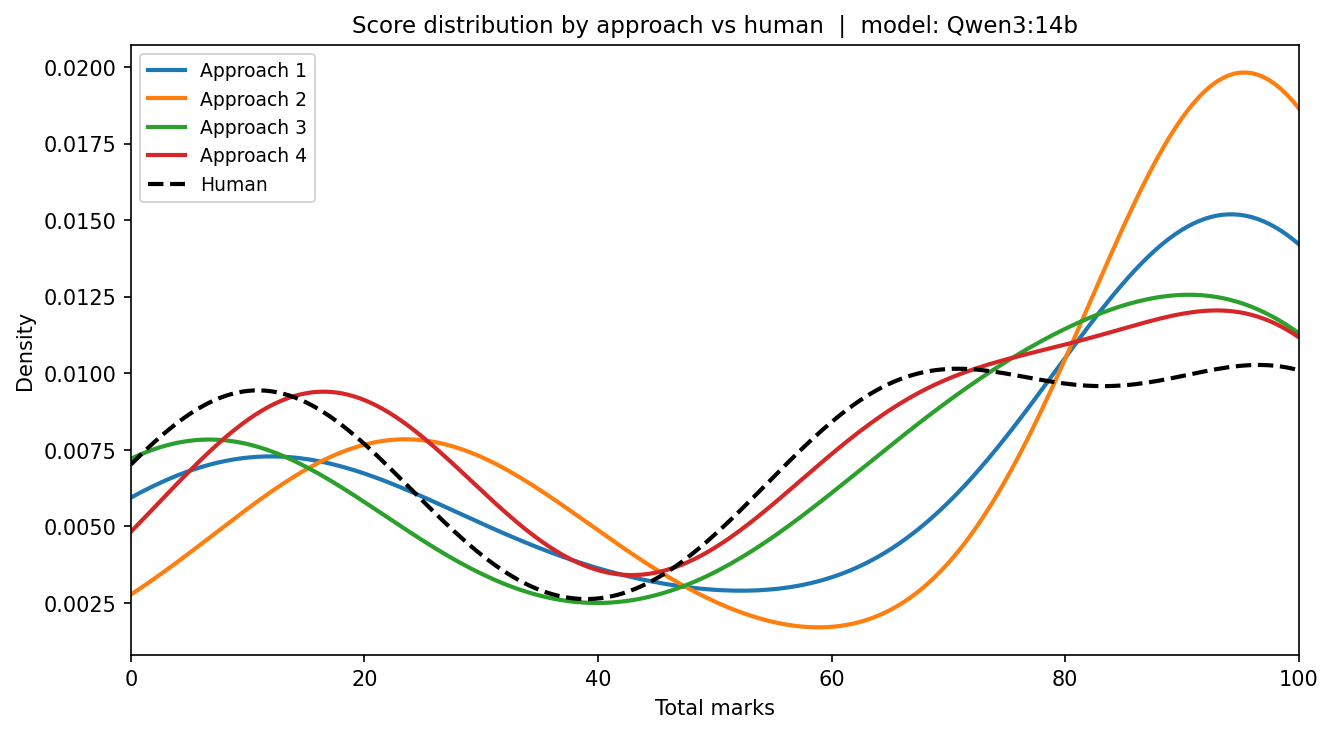
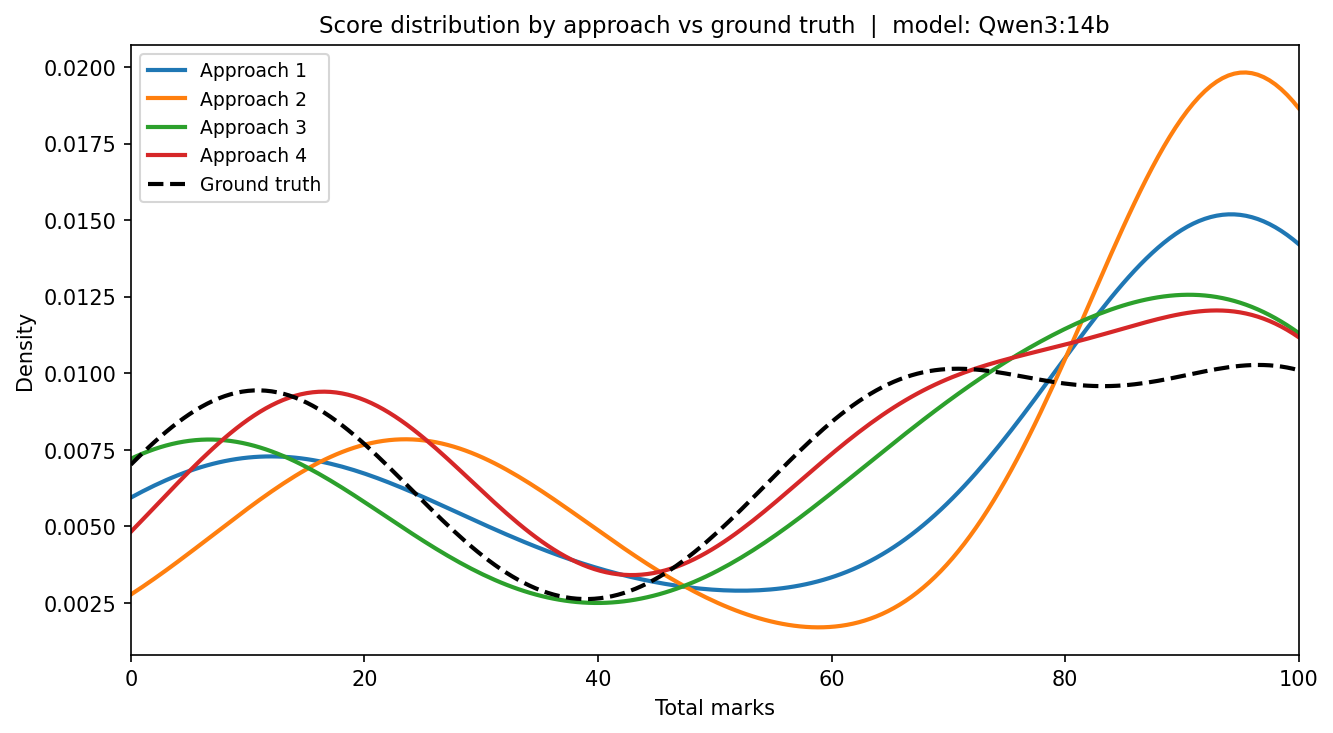
some changes in graphs

Changed region(s): [[0.2461, 0.0, 0.8305, 0.06], [0.1538, 0.2401, 0.2461, 0.2701]]

diff --git a/src/generate_graph.py b/src/generate_graph.py
@@ -217,7 +217,7 @@ def _plot_rq1_kde_figure(df, gt_df, model, output_dir, filename):
         valid_qids = set(deduped["question_id"].dropna().unique())
         human_vals = gt_df[gt_df["question_id"].isin(valid_qids)]["human_total"].dropna().values
         if len(human_vals) >= 2:
-            sns.kdeplot(human_vals, ax=ax, label="Human", color="black",
+            sns.kdeplot(human_vals, ax=ax, label="Ground truth", color="black",
                         linewidth=2, linestyle="--", clip=(0, 100))
 
     ax.set_xlim(0, 100)
@@ -225,7 +225,7 @@ def _plot_rq1_kde_figure(df, gt_df, model, output_dir, filename):
     ax.set_ylabel("Density")
     ax.legend(fontsize=9)
     ax.set_title(
-        f"Score distribution by approach vs human  |  model: {model}",
+        f"Score distribution by approach vs ground truth  |  model: {model}",
         fontsize=11,
     )
     plt.tight_layout()
@@ -276,7 +276,7 @@ def _plot_rq4_leniency_figure(df, gt_df, model, output_dir, filename):
 
     ax.set_xticks(x)
     ax.set_xticklabels([a.replace("approach_", "Approach ") for a in approaches], fontsize=10)
-    ax.set_ylabel("Mean (LLM − Human) marks", fontsize=10)
+    ax.set_ylabel("Mean (LLM − Ground truth) marks", fontsize=10)
     ax.set_title(
         f"Leniency by approach  |  model: {model}",
         fontsize=11,
@@ -334,7 +334,7 @@ def _plot_rq4_leniency_scatter_figure(df, gt_df, model, output_dir, filename):
     ax.legend(handles=handles, title="Student", fontsize=8, loc="upper right")
     ax.set_xticks(x_positions)
     ax.set_xticklabels([a.replace("approach_", "Approach ") for a in approaches], fontsize=10)
-    ax.set_ylabel("LLM − Human (marks)", fontsize=10)
+    ax.set_ylabel("LLM − Ground truth (marks)", fontsize=10)
     ax.set_title(
         f"Leniency per submission  |  model: {model}",
         fontsize=11,
@@ -727,7 +727,7 @@ def _plot_rq4_bucket_distribution_figure(df, gt_df, datastore_dir, model, output
     human_counts = _collect_human_bucket_counts(gt_df, valid_question_ids)
 
     categories = ["Wrong", "Semi", "Correct"]
-    groups = ["Human"] + [a.replace("approach_", "AP") for a in APPROACHES]
+    groups = ["Ground truth"] + [a.replace("approach_", "AP") for a in APPROACHES]
     all_counts = [human_counts] + [approach_counts[a] for a in APPROACHES]
 
     def to_pct(cnt):
@@ -756,7 +756,7 @@ def _plot_rq4_bucket_distribution_figure(df, gt_df, datastore_dir, model, output
     ax.set_xticklabels(categories, fontsize=11)
     ax.set_ylabel("% of rubric point classifications", fontsize=10)
     ax.set_ylim(0, 100)
-    ax.set_title(f"Bucket pickup % by approach vs human  |  model: {model}", fontsize=11)
+    ax.set_title(f"Bucket pickup % by approach vs ground truth  |  model: {model}", fontsize=11)
     ax.legend(title="Grader", fontsize=8, loc="upper right")
     ax.spines["top"].set_visible(False)
     ax.spines["right"].set_visible(False)
